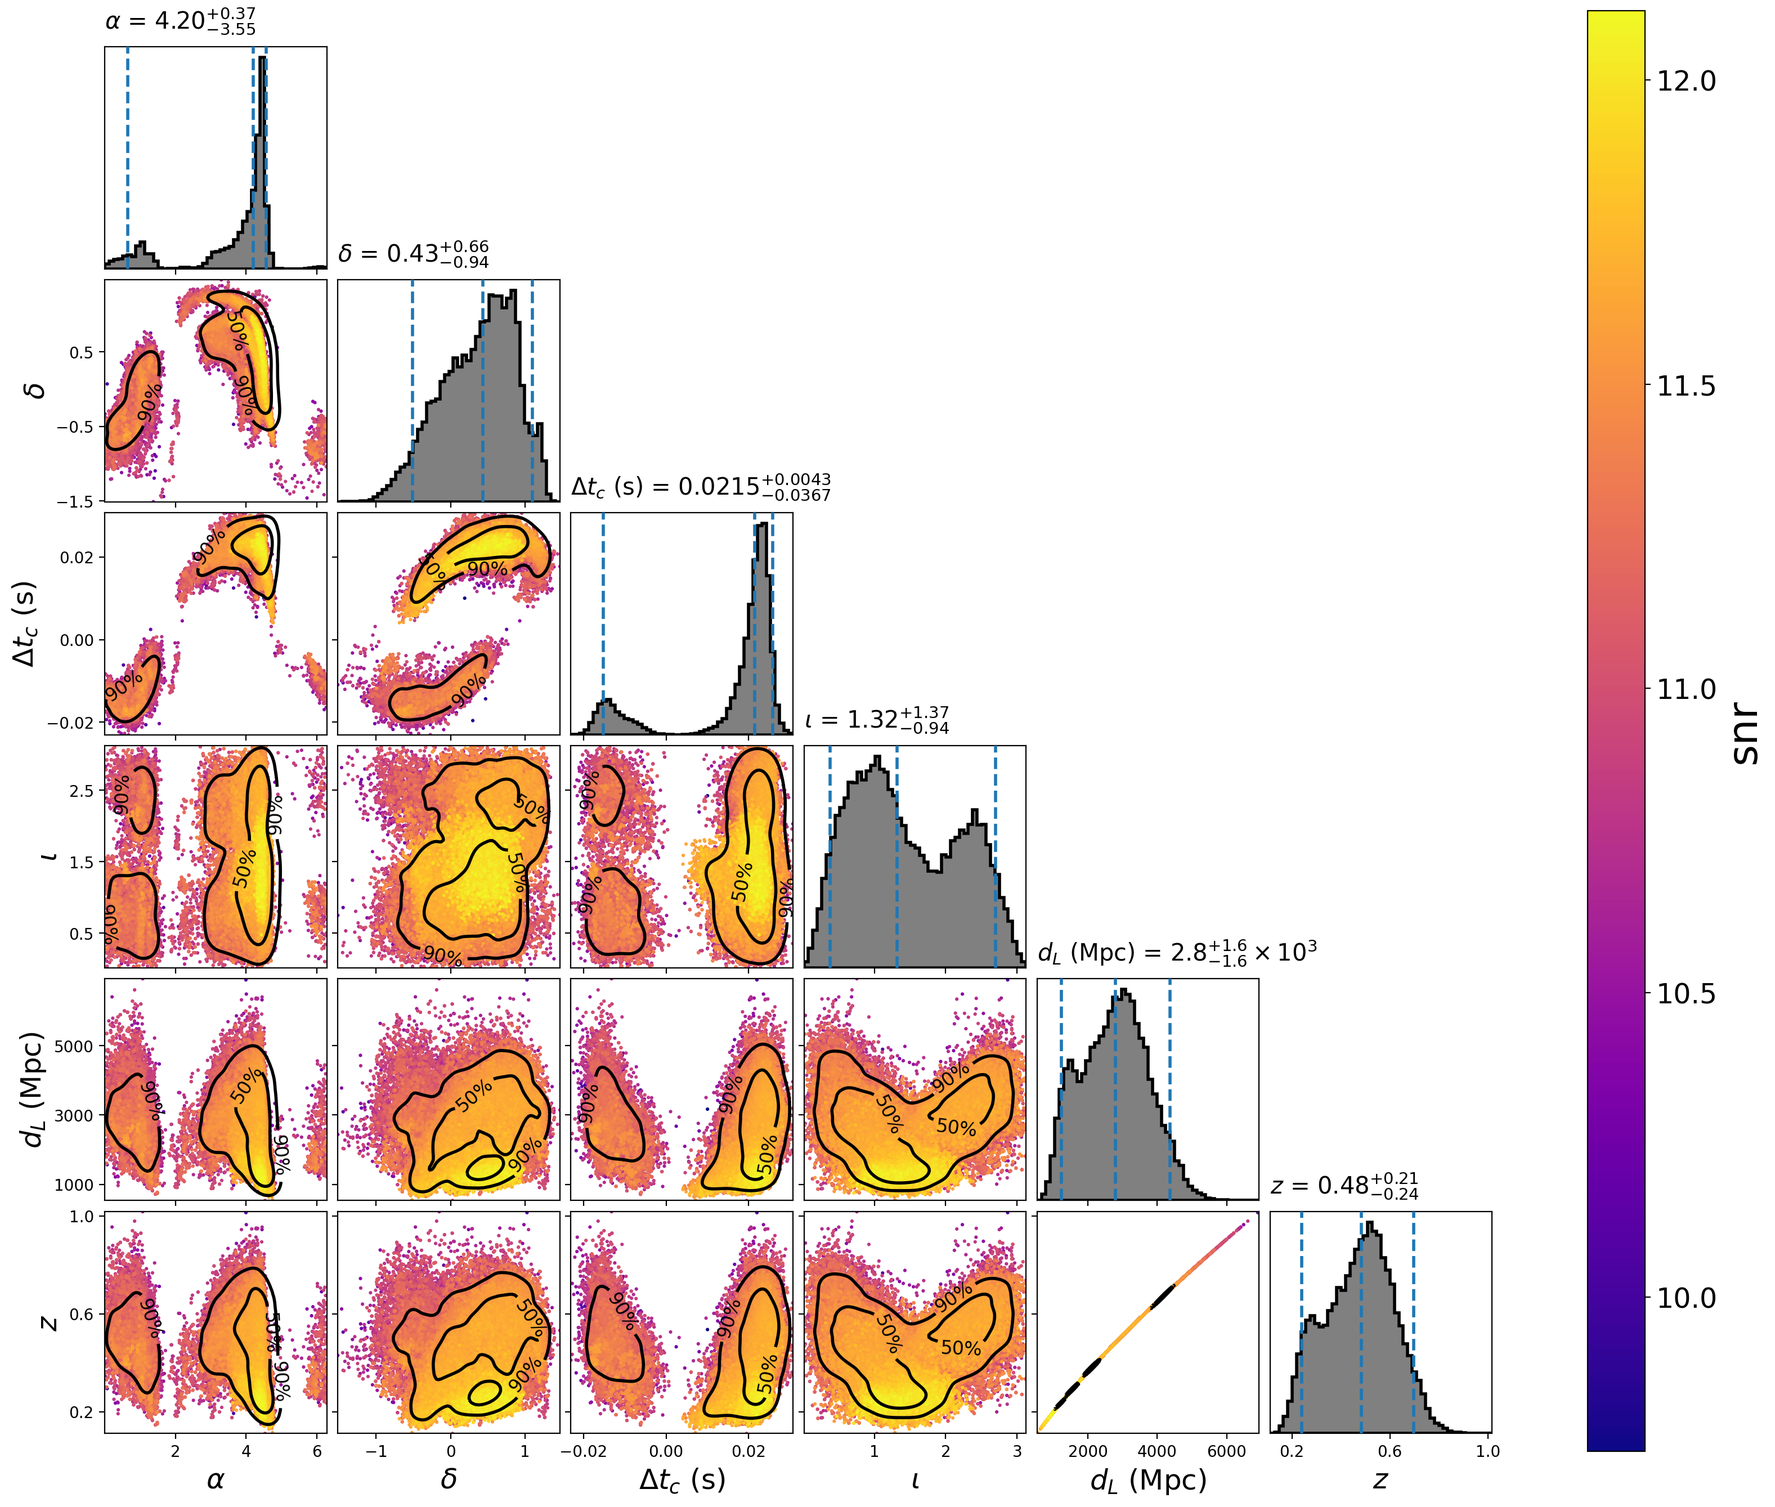
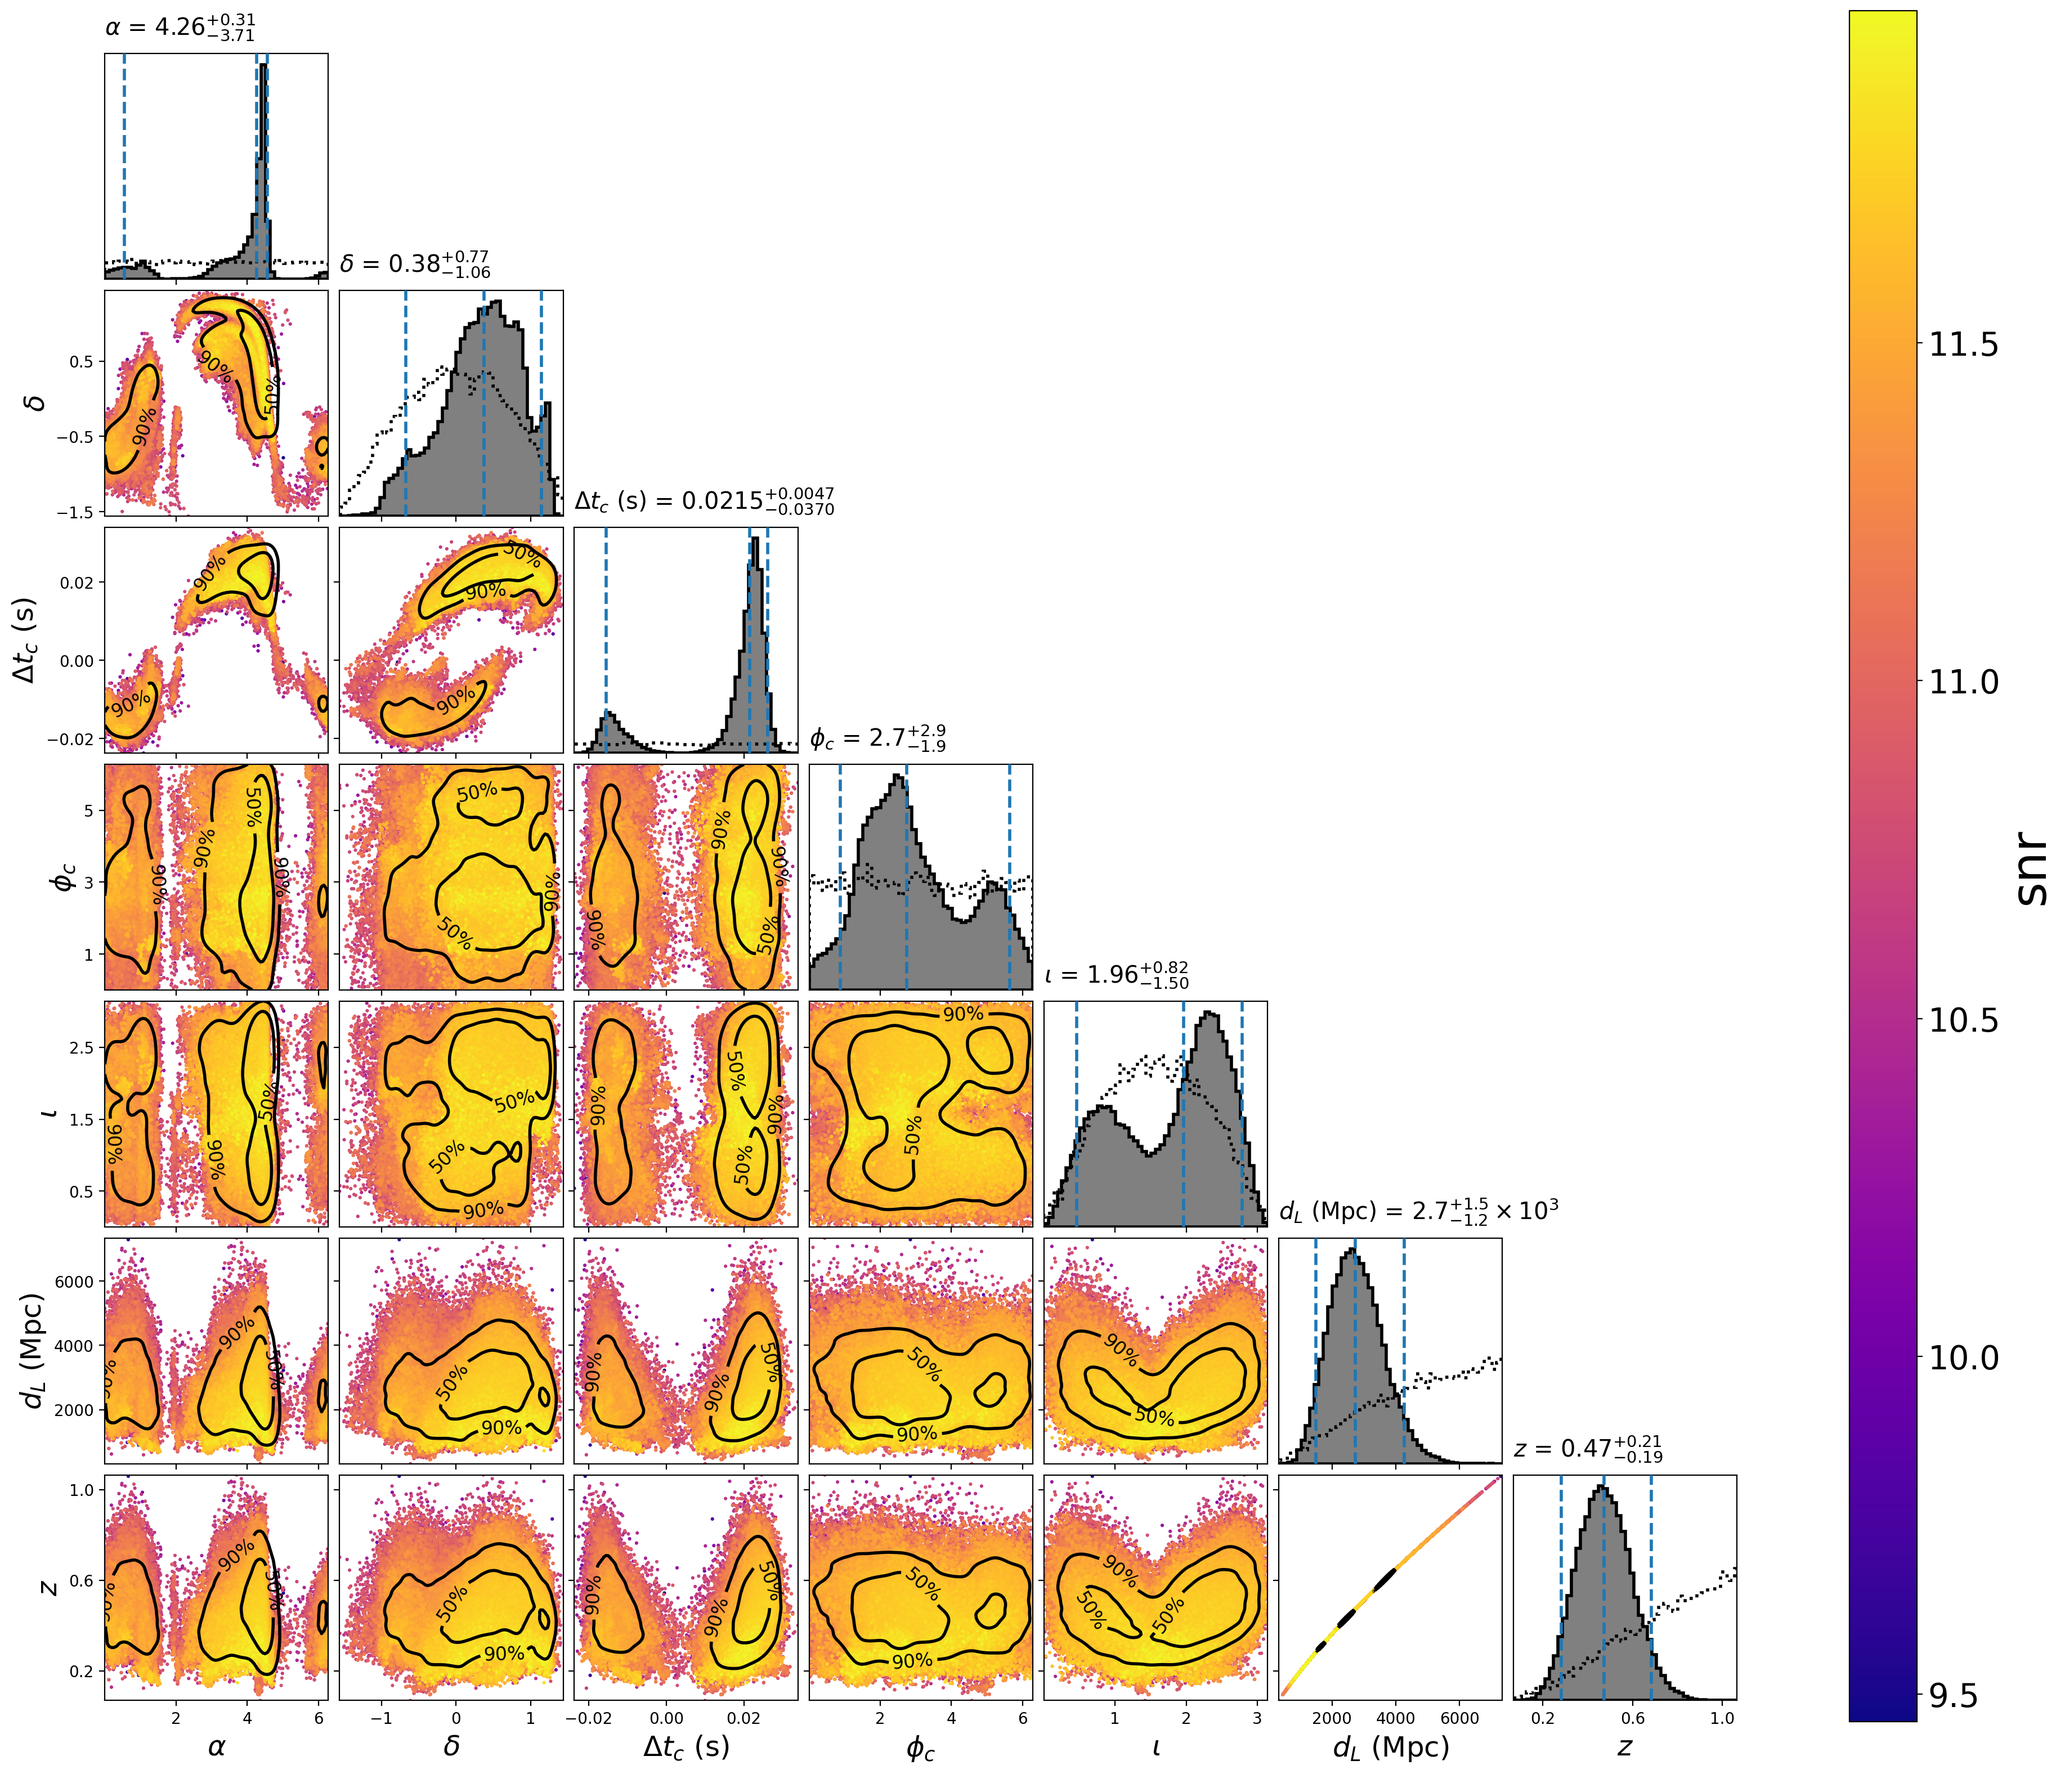
added the modified plots for GW190620

diff --git a/posteriors/H1L1V1-TABLE_SUMMARY_GW190620_030421-1126259200-400.html b/posteriors/H1L1V1-TABLE_SUMMARY_GW190620_030421-1126259200-400.html
@@ -1,10 +1,10 @@
-<div class=pycbc-meta key="cmd" value="/work/shilpa.kastha/src/3_ogc/pycbc/bin/pycbc_inference_table_summary --input-file H1L1V1-EXTRACT_POSTERIOR_GW190620_030421-1126259200-400.hdf --output-file H1L1V1-TABLE_SUMMARY_GW190620_030421-1126259200-400.html --parameters srcmass1 srcmass2 srcmchirp q_from_mass1_mass2(srcmass1, srcmass2):q chi_eff chi_p ra dec delta_tc distance redshift snr_from_loglr(loglikelihood-lognl):SNR --print-metadata trigger_time:$t_0$ analyzed_detectors:Detectors"></div><div class=pycbc-meta key="title" value="Parameter Estimates"></div><div class=pycbc-meta key="caption" value="Summary of parameter estimates. The 90-percent credible interval is the 50th +/- 95th/5th percentiles. The maximum posterior parameters are the parameters with the largest likelihood * prior. The maximum likelihood parameters are the parameters with the largest likelihood."></div><div class=pycbc-meta key="version" value="Version: 0.0a8146
+<div class=pycbc-meta key="cmd" value="/work/sumit.kumar/src/ve/python3.7/pycbc-dev/bin/pycbc_inference_table_summary --input-file H1L1V1-EXTRACT_POSTERIOR_GW190620_030421_FRAMEFILES2_NLIVE16K-1126259200-400.hdf --output-file H1L1V1-TABLE_SUMMARY_GW190620_030421_FRAMEFILES2_NLIVE16K-1126259200-400.html --parameters srcmass1 srcmass2 srcmchirp q_from_mass1_mass2(srcmass1, srcmass2):q chi_eff chi_p ra dec delta_tc distance redshift snr_from_loglr(loglikelihood-lognl):SNR --print-metadata trigger_time:$t_0$ analyzed_detectors:Detectors"></div><div class=pycbc-meta key="title" value="Parameter Estimates"></div><div class=pycbc-meta key="caption" value="Summary of parameter estimates. The 90-percent credible interval is the 50th +/- 95th/5th percentiles. The maximum posterior parameters are the parameters with the largest likelihood * prior. The maximum likelihood parameters are the parameters with the largest likelihood."></div><div class=pycbc-meta key="version" value="Version: 0.0a8165
 Branch: master
 Tag: None
-Id: 18f300e34b02cd197bdce4c4c7714fcb8b790794
+Id: cfc9de02b433e75794937cfdd634602fd9470832
 Builder: Unknown User &lt;&gt;
-Build date: 2021-06-02 09:53:35 +0000
-Repository status is UNCLEAN: Modified working tree"></div>
+Build date: 2021-06-23 12:03:02 +0000
+Repository status is CLEAN: All modifications committed"></div>
 <script type="text/x-mathjax-config">
   MathJax.Hub.Config({tex2jax: {inlineMath: [['$','$']]}});
 </script>
@@ -34,13 +34,13 @@ Repository status is UNCLEAN: Modified working tree"></div>
                     $m_1^{\rm{src}}~(\mathrm{M}_\odot)$
                 </td>
                 <td>
-                    $63^{+19}_{-15}$
+                    $63^{+25}_{-16}$
                 </td>
                 <td>
                     --
                 </td>
                 <td>
-                    $73$
+                    $80$
                 </td>
             </tr>
             <tr>
@@ -48,13 +48,13 @@ Repository status is UNCLEAN: Modified working tree"></div>
                     $m_2^{\rm{src}}~(\mathrm{M}_\odot)$
                 </td>
                 <td>
-                    $29^{+14}_{-14}$
+                    $28^{+15}_{-12}$
                 </td>
                 <td>
                     --
                 </td>
                 <td>
-                    $12$
+                    $13$
                 </td>
             </tr>
             <tr>
@@ -62,13 +62,13 @@ Repository status is UNCLEAN: Modified working tree"></div>
                     $\mathcal{M}^{\rm{src}}~(\mathrm{M}_\odot)$
                 </td>
                 <td>
-                    $35.9^{+7}_{-9.9}$
+                    $35.9^{+7.7}_{-6.9}$
                 </td>
                 <td>
                     --
                 </td>
                 <td>
-                    $24.3$
+                    $25.6$
                 </td>
             </tr>
             <tr>
@@ -76,13 +76,13 @@ Repository status is UNCLEAN: Modified working tree"></div>
                     $q$
                 </td>
                 <td>
-                    $2.2^{+2.7}_{-1}$
+                    $2.3^{+2.6}_{-1.1}$
                 </td>
                 <td>
                     --
                 </td>
                 <td>
-                    $6$
+                    $6.4$
                 </td>
             </tr>
             <tr>
@@ -90,13 +90,13 @@ Repository status is UNCLEAN: Modified working tree"></div>
                     $\chi_\mathrm{eff}$
                 </td>
                 <td>
-                    $0.27^{+0.22}_{-0.68}$
+                    $0.26^{+0.23}_{-0.35}$
                 </td>
                 <td>
                     --
                 </td>
                 <td>
-                    $-0.34$
+                    $-0.28$
                 </td>
             </tr>
             <tr>
@@ -104,13 +104,13 @@ Repository status is UNCLEAN: Modified working tree"></div>
                     $\chi_p$
                 </td>
                 <td>
-                    $0.65^{+0.24}_{-0.38}$
+                    $0.63^{+0.28}_{-0.43}$
                 </td>
                 <td>
                     --
                 </td>
                 <td>
-                    $0.60$
+                    $0.73$
                 </td>
             </tr>
             <tr>
@@ -118,13 +118,13 @@ Repository status is UNCLEAN: Modified working tree"></div>
                     $\alpha$
                 </td>
                 <td>
-                    $4.20^{+0.37}_{-3.55}$
+                    $4.26^{+0.31}_{-3.71}$
                 </td>
                 <td>
                     --
                 </td>
                 <td>
-                    $4.39$
+                    $4.51$
                 </td>
             </tr>
             <tr>
@@ -132,13 +132,13 @@ Repository status is UNCLEAN: Modified working tree"></div>
                     $\delta$
                 </td>
                 <td>
-                    $0.43^{+0.66}_{-0.94}$
+                    $0.38^{+0.77}_{-1.06}$
                 </td>
                 <td>
                     --
                 </td>
                 <td>
-                    $0.63$
+                    $-0.10$
                 </td>
             </tr>
             <tr>
@@ -146,13 +146,13 @@ Repository status is UNCLEAN: Modified working tree"></div>
                     $\Delta t_c~(\rm{s})$
                 </td>
                 <td>
-                    $0.0215^{+0.0043}_{-0.0367}$
+                    $0.0215^{+0.0047}_{-0.0370}$
                 </td>
                 <td>
                     --
                 </td>
                 <td>
-                    $0.0227$
+                    $0.0168$
                 </td>
             </tr>
             <tr>
@@ -160,13 +160,13 @@ Repository status is UNCLEAN: Modified working tree"></div>
                     $d_L$ (Mpc)
                 </td>
                 <td>
-                    $2800^{+1600}_{-1600}$
+                    $2700^{+1500}_{-1200}$
                 </td>
                 <td>
                     --
                 </td>
                 <td>
-                    $1100$
+                    $900$
                 </td>
             </tr>
             <tr>
@@ -174,13 +174,13 @@ Repository status is UNCLEAN: Modified working tree"></div>
                     $z$
                 </td>
                 <td>
-                    $0.48^{+0.21}_{-0.24}$
+                    $0.47^{+0.21}_{-0.19}$
                 </td>
                 <td>
                     --
                 </td>
                 <td>
-                    $0.21$
+                    $0.17$
                 </td>
             </tr>
             <tr>
@@ -188,17 +188,17 @@ Repository status is UNCLEAN: Modified working tree"></div>
                     SNR
                 </td>
                 <td>
-                    $11.32^{+0.42}_{-0.46}$
+                    $11.30^{+0.32}_{-0.46}$
                 </td>
                 <td>
                     --
                 </td>
                 <td>
-                    $12.11$
+                    $11.99$
                 </td>
             </tr>
     </table>
 <h4><b>$t_0$:</b> 1245035079.3</h4>
 <h4><b>Detectors:</b> L1, V1</h4>
-<h4><b>Number of posterior samples:</b> 110114</h4><br />
+<h4><b>Number of posterior samples:</b> 420946</h4><br />
 <br />
